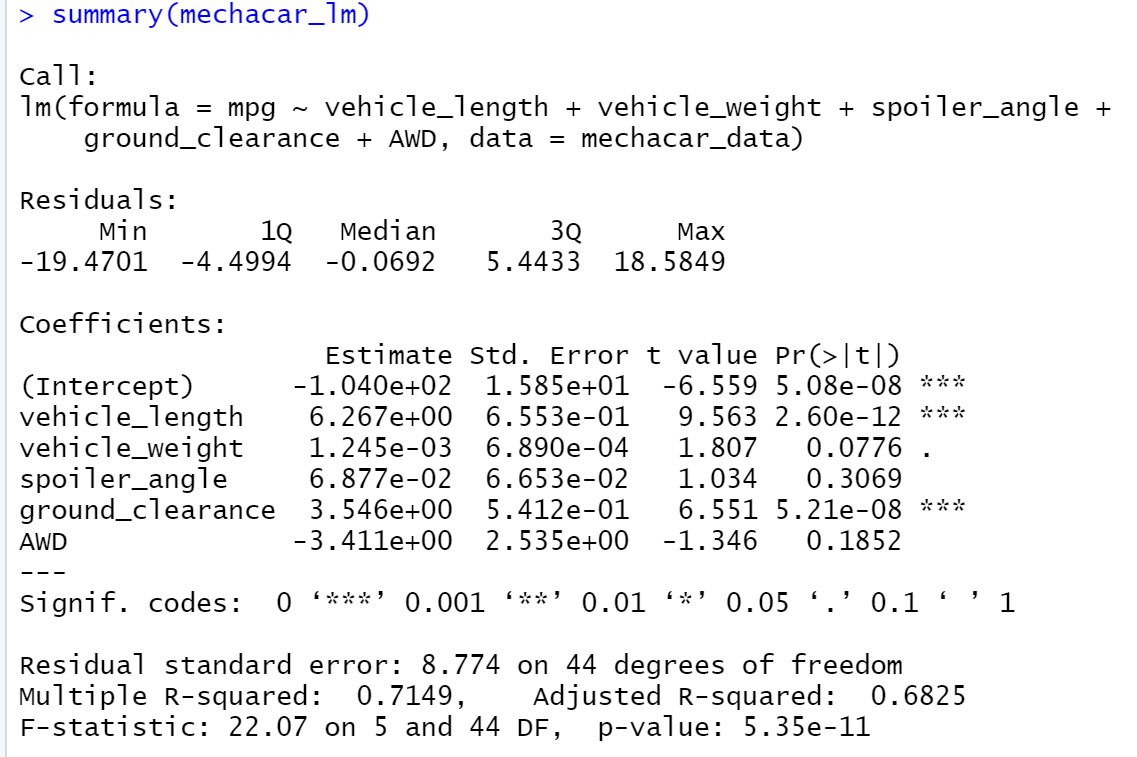
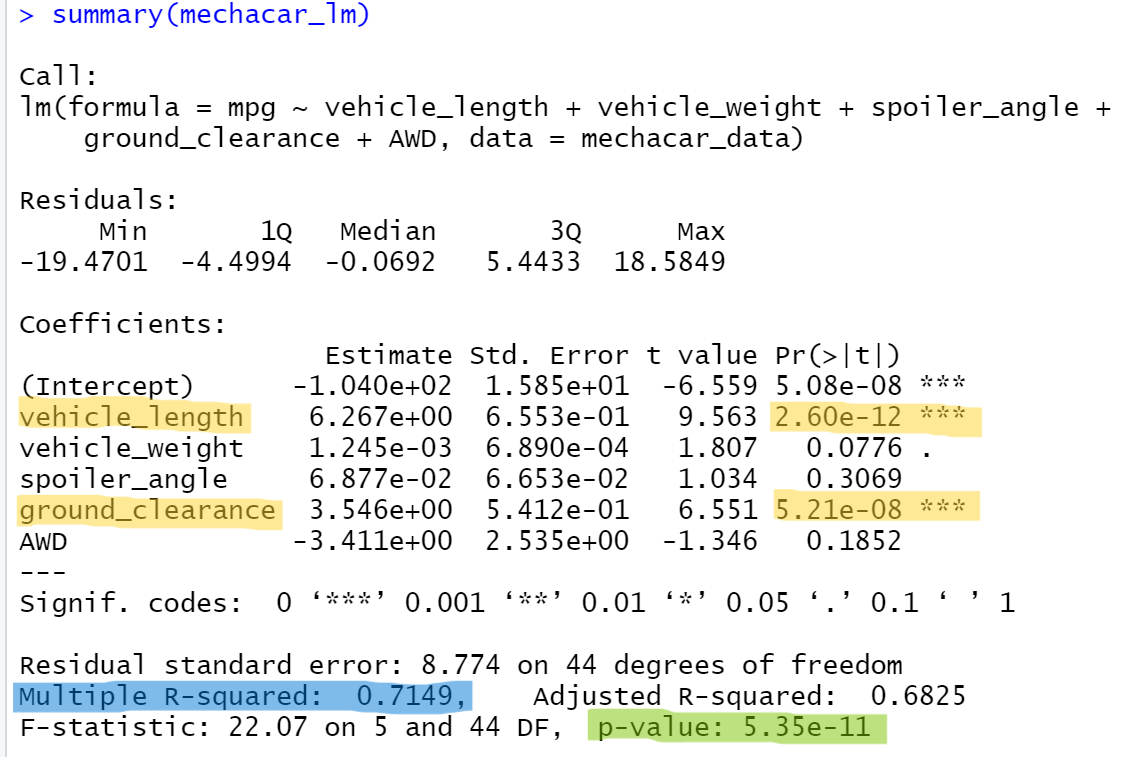
update

diff --git a/README.md b/README.md
@@ -6,13 +6,13 @@
 
 * Which variables/coefficients provided a non-random amount of variance to the mpg values in the dataset?
 
-As the above screenshot can show, the vehicle_length and ground_clearance have a significant non-random amount of variance when compared to the mpg values.
+As the above screenshot can show highlighted in yellow, the vehicle_length and ground_clearance have a significant non-random amount of variance when compared to the mpg values.
 
 * Is the slope of the linear model considered to be zero? Why or why not?
 
-The slope of the linear model is NOT considered to be zero since the p-value (5.35e-11) is much smaller than the significance level (0.05).
+The slope of the linear model is NOT considered to be zero since the p-value (5.35e-11) is much smaller than the significance level (0.05), which can be seen above highlighted in green. 
 
 * Does this linear model predict mpg of MechaCar prototypes effectively? Why or why not?
 
-We believe the model accurately predicts the mpg of MechaCar prototypes because the R-Squared value is 0.7149. 
+We believe the model accurately predicts the mpg of MechaCar prototypes because the R-Squared value is 0.7149, as seen above highlighted in blue. 
 
